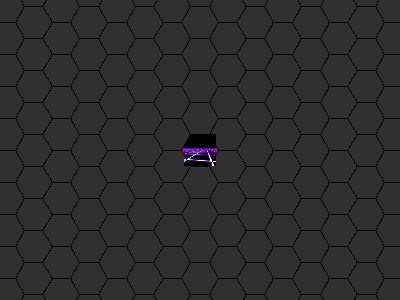
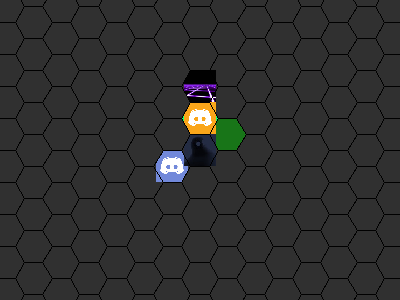
Compatibility with host

Changed region(s): [[0.39, 0.21, 0.63, 0.63]]

diff --git a/src/main/java/botmanager/frostbalance/grid/PlayerCharacter.java b/src/main/java/botmanager/frostbalance/grid/PlayerCharacter.java
@@ -2,6 +2,9 @@ package botmanager.frostbalance.grid;
 
 import botmanager.frostbalance.Frostbalance;
 import botmanager.frostbalance.Nation;
+import java.io.IOException;
+import java.io.InputStream;
+import java.net.HttpURLConnection;
 import net.dv8tion.jda.api.entities.Guild;
 import net.dv8tion.jda.api.entities.Member;
 import net.dv8tion.jda.api.entities.User;
@@ -10,6 +13,8 @@ import java.net.MalformedURLException;
 import java.net.URL;
 import java.util.ArrayList;
 import java.util.List;
+import java.util.logging.Level;
+import java.util.logging.Logger;
 
 public class PlayerCharacter extends TileObject {
 
@@ -81,12 +86,18 @@ public class PlayerCharacter extends TileObject {
     }
 
     @Override
-    public URL getRender() {
+    public InputStream getRender() {
         try {
-            return new URL(getUser().getEffectiveAvatarUrl());
+            URL url = new URL(getUser().getEffectiveAvatarUrl());
+            HttpURLConnection connection = (HttpURLConnection) url.openConnection();
+            connection.setRequestProperty("User-Agent", "");
+            return connection.getInputStream();
         } catch (MalformedURLException e) {
             System.err.println("Effective avatar URL is malformed!");
             e.printStackTrace();
+            return null;
+        } catch (IOException ex) {
+            Logger.getLogger(PlayerCharacter.class.getName()).log(Level.SEVERE, null, ex);
             return null;
         }
     }

diff --git a/src/main/java/botmanager/frostbalance/grid/TileObject.java b/src/main/java/botmanager/frostbalance/grid/TileObject.java
@@ -3,6 +3,7 @@ package botmanager.frostbalance.grid;
 import javax.imageio.ImageIO;
 import java.awt.image.BufferedImage;
 import java.io.IOException;
+import java.io.InputStream;
 import java.net.URL;
 
 public abstract class TileObject extends TileData {
@@ -28,10 +29,13 @@ public abstract class TileObject extends TileData {
 
     public BufferedImage getImage() throws IOException {
         if (cachedImage != null) return cachedImage;
-        else return ImageIO.read(getRender());
+        else {
+            cachedImage = ImageIO.read(getRender());
+            return cachedImage;
+        }
     }
 
-    public abstract URL getRender();
+    public abstract InputStream getRender();
 
     public Hex getLocation() {
         return tile.getLocation();

diff --git a/src/main/java/botmanager/frostbalance/Frostbalance.java b/src/main/java/botmanager/frostbalance/Frostbalance.java
@@ -1,6 +1,7 @@
 package botmanager.frostbalance;
 
 import botmanager.Utilities;
+import botmanager.Utils;
 import botmanager.frostbalance.commands.admin.*;
 import botmanager.frostbalance.commands.influence.*;
 import botmanager.frostbalance.commands.map.ClaimTileCommand;
@@ -783,7 +784,7 @@ public class Frostbalance extends BotBase {
 
     public Nation getMainAllegiance(User user) {
         String allegiance = getUserCSVAtIndex(null, user, 1);
-        if (allegiance == null) return Nation.NONE;
+        if (Utils.isNullOrEmpty(allegiance)) return Nation.NONE;
         return Nation.valueOf(allegiance);
     }
 
